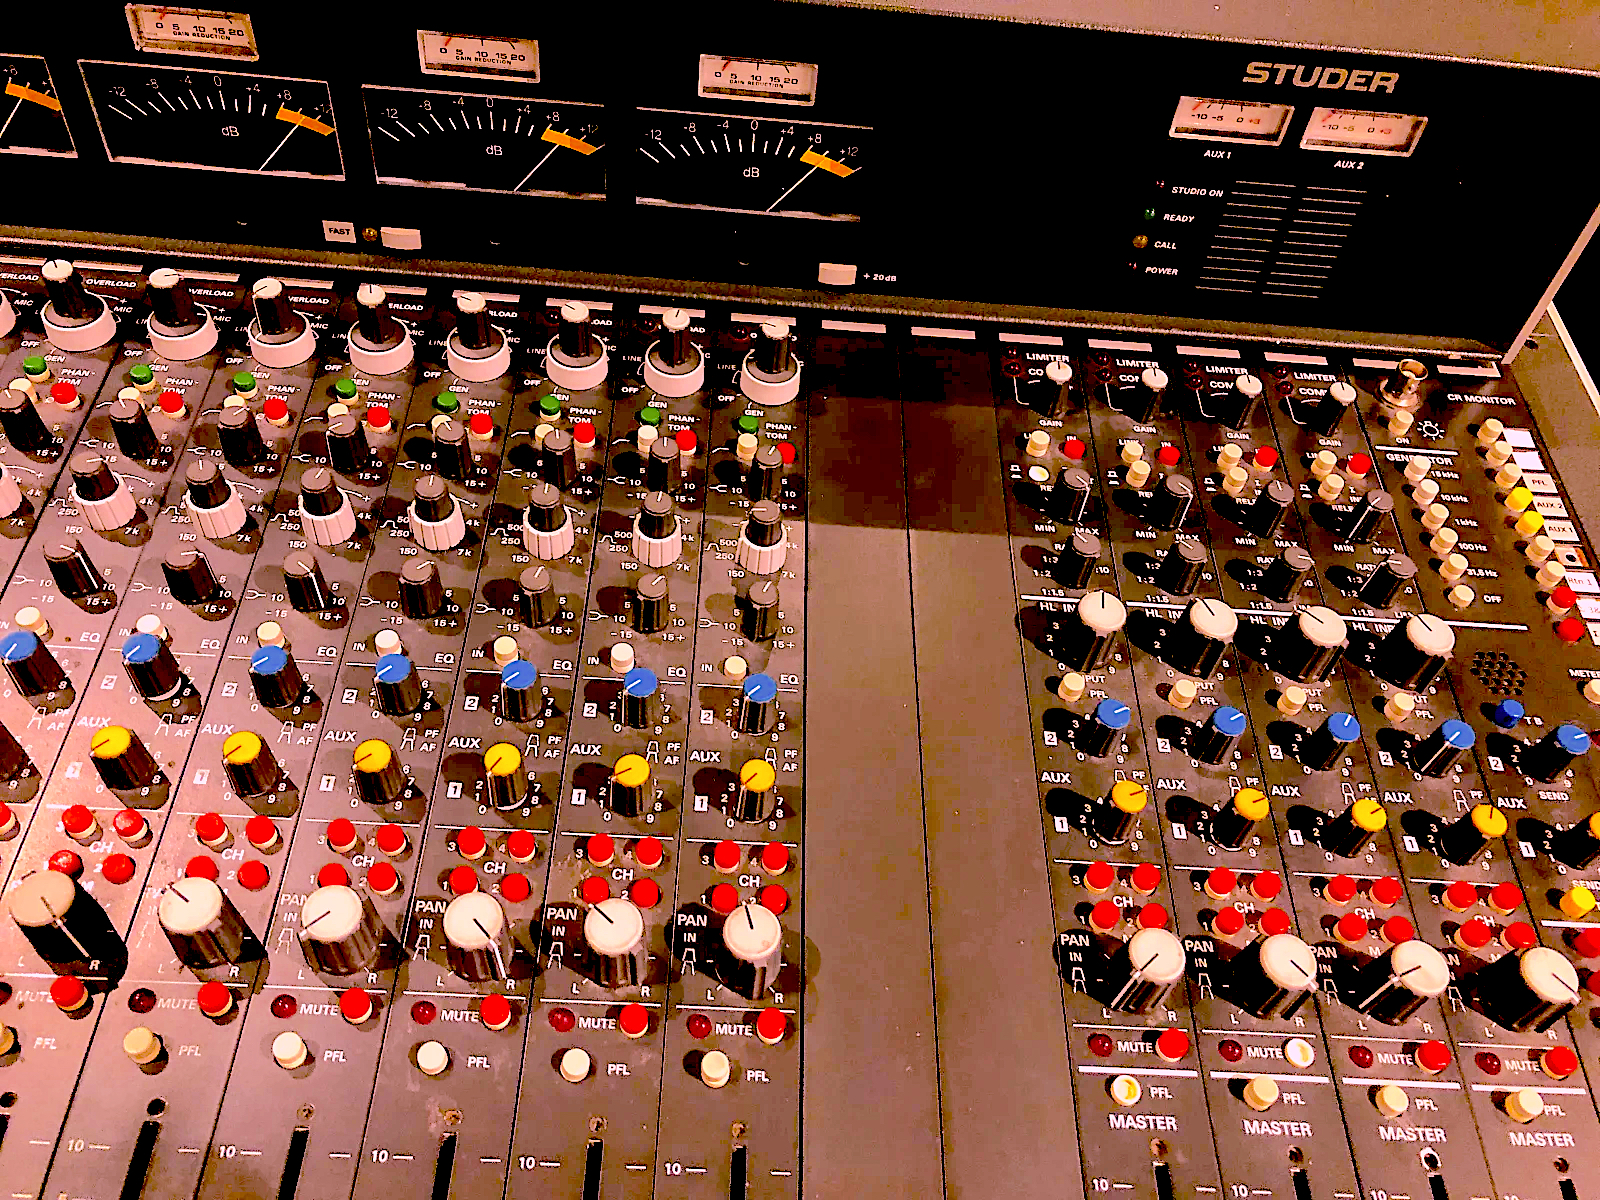
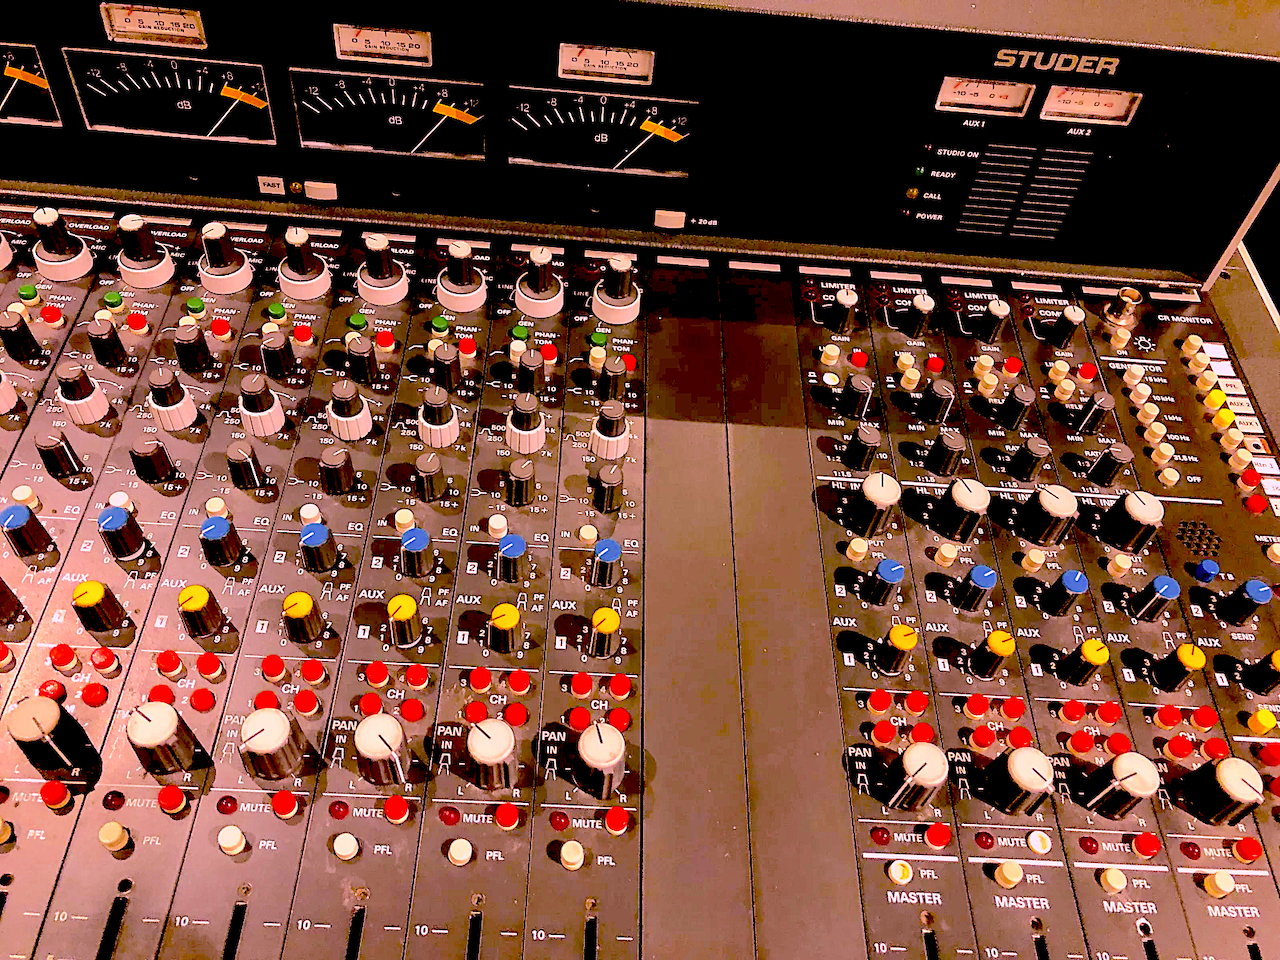
fix image sizes to fit web, dynamic resizing, adjust levels

diff --git a/about.md b/about.md
@@ -21,7 +21,7 @@ image: assets/images/marinairs-trans-bg.png
 
 The reason there's been such a big renaissance of analog gear, love of analog consoles for tracking during big recording sessions as well as mixing is closely related to the fact that they are widely considered to add a certain coloration or <<warmth>> to the sound that's pushed through their ([discrete](https://en.wikipedia.org/wiki/Electronic_component)) circuits, that In-The-Box recording techniques don't. It's the reason behind a big market for analog summing devices, high-end analog-to-digital converters, analog outboard gear as well as hybrid set-up techniques where mix engineers and producers work In-The-Box but -- at the same time -- process specific mix channels, entire [Stems](https://en.wikipedia.org/wiki/Stem_(audio)) or simple sounds through analog equipment -- back into a final digital bounce to disk inside a computer for ease of editing, distribution & storage.
 
-| ![img](assets/images/studer01.JPG){:height="400px;" :width="auto;"} | ![img](assets/images/studer03.JPG){:height="400px;" :width="auto;"} |  ![img](assets/images/studer02.JPG){:height="400px;" :width="auto;"} |![img](assets/images/aural-exciter-pcb.jpg){:height="400px;" :width="auto;"} |
+| ![img](assets/images/studer01.JPG){:width="270px;" :height="auto;"} | ![img](assets/images/studer03.JPG){:width="190px;" :height="auto;} |  ![img](assets/images/neve-33609.jpg){:height="400px;" :width="auto;"} |![img](assets/images/aural-exciter-pcb.jpg){:height="400px;" :width="auto;"} |
 
 | ![img](assets/images/workbench.jpg){:height="460px;" :width="auto;"} | ![img](assets/images/aural-exciter.jpg){:height="475px;" :width="auto;"} |
 
